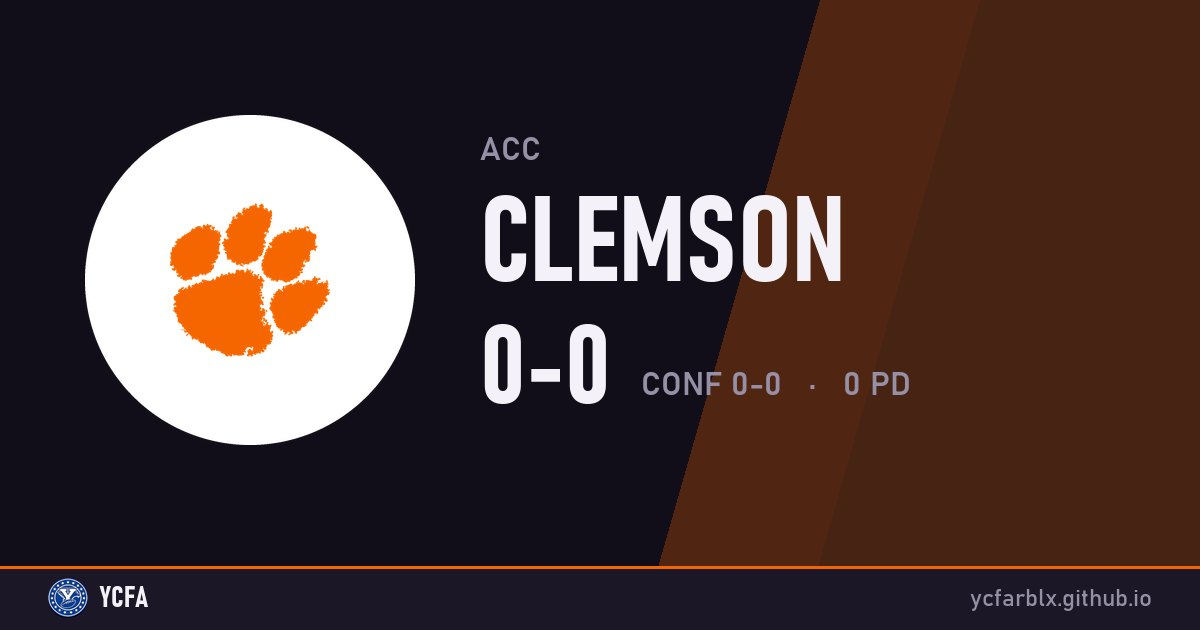
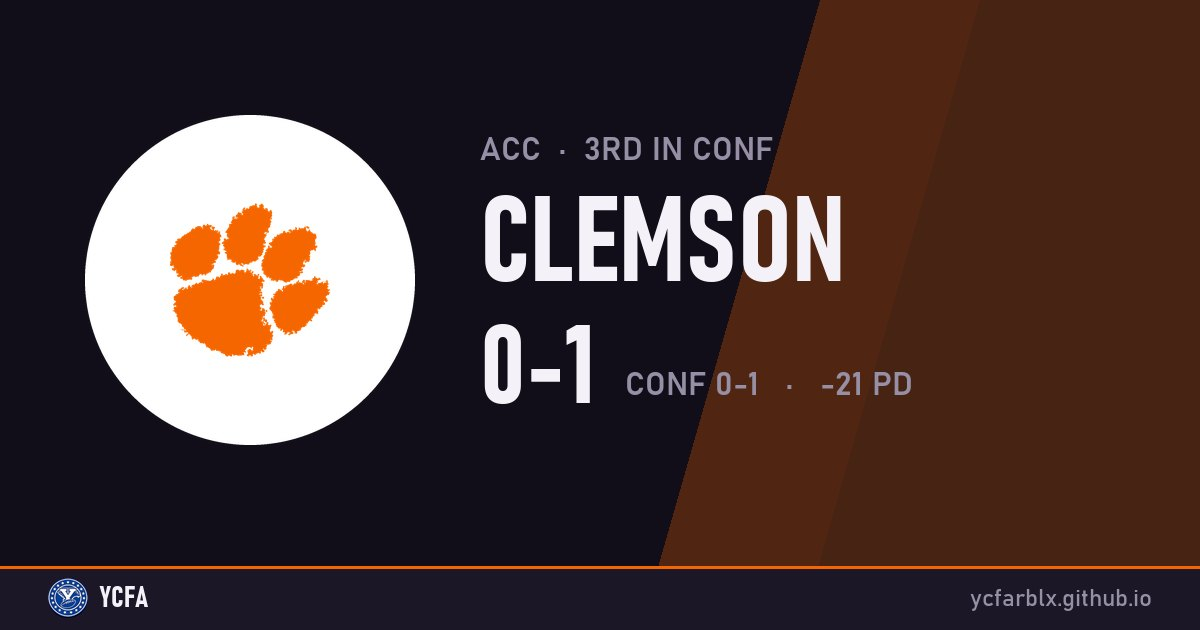
Stats update 2026-11-23 23:20

Changed region(s): [[0.4625, 0.5127, 0.7708, 0.6333], [0.4933, 0.2111, 0.6475, 0.2714]]

diff --git a/game/7/index.html b/game/7/index.html
@@ -1,0 +1,141 @@
+<!doctype html>
+<html lang="en">
+<head>
+  <meta charset="utf-8">
+  <meta name="viewport" content="width=device-width, initial-scale=1, viewport-fit=cover">
+  <!--meta:start-->
+  <title>Florida State 21, Clemson 0 · Final · YCFA</title>
+  <meta name="description" content="Clemson forfeited. Florida State gets the forfeit win (FFW), Clemson the forfeit loss (FFL).">
+  <meta name="theme-color" content="#782f40">
+  <meta property="og:site_name" content="YCFA">
+  <meta property="og:type" content="website">
+  <meta property="og:title" content="Florida State 21, Clemson 0 · Final · YCFA">
+  <meta property="og:description" content="Clemson forfeited. Florida State gets the forfeit win (FFW), Clemson the forfeit loss (FFL).">
+  <meta property="og:url" content="https://ycfarblx.github.io/game/7">
+  <meta property="og:image" content="https://ycfarblx.github.io/og/game-7.jpg?v=ac74031159">
+  <meta property="og:image:width" content="1200">
+  <meta property="og:image:height" content="630">
+  <meta name="twitter:card" content="summary_large_image">
+  <meta name="twitter:title" content="Florida State 21, Clemson 0 · Final · YCFA">
+  <meta name="twitter:description" content="Clemson forfeited. Florida State gets the forfeit win (FFW), Clemson the forfeit loss (FFL).">
+  <meta name="twitter:image" content="https://ycfarblx.github.io/og/game-7.jpg?v=ac74031159">
+  <!--meta:end-->
+  <link rel="icon" href="/img/favicon.png">
+  <link rel="apple-touch-icon" href="/img/apple-touch-icon.png">
+  <link rel="preconnect" href="https://fonts.googleapis.com">
+  <link rel="preconnect" href="https://fonts.gstatic.com" crossorigin>
+  <link href="https://fonts.googleapis.com/css2?family=Graduate&family=Zilla+Slab:wght@500;600;700&family=Source+Sans+3:wght@400;500;600;700;800&display=swap" rel="stylesheet">
+  <link rel="stylesheet" href="/styles.css?v=286e09b7">
+  <script>
+    try { const t = localStorage.getItem("ycfa-theme"); if (t) document.documentElement.dataset.theme = t; } catch (e) {}
+  </script>
+</head>
+<body>
+  <a class="skip" href="#app">Skip to content</a>
+
+  <aside class="siderail" aria-label="YCFA">
+    <a href="/" class="crest" data-link aria-label="YCFA home">
+      <img src="/img/ycfa-logo.png" alt="" width="112" height="112">
+      <span class="crest-text"><span class="crest-word">YCFA</span><span class="crest-sub">Football · Season <b id="sideSeason">1</b></span></span>
+    </a>
+    <span class="live" id="liveCount" hidden aria-live="polite"><i></i><b>1</b><span class="live-word">&nbsp;watching</span></span>
+    <nav class="mainnav" aria-label="Main">
+      <a href="/" data-link data-nav="home"><svg viewBox="0 0 24 24"><path d="M4 10.5 12 4l8 6.5V20H15v-5.5H9V20H4Z"/></svg><span>Home</span></a>
+      <a href="/scores" data-link data-nav="scores"><svg viewBox="0 0 24 24"><rect x="3.5" y="5" width="17" height="14" rx="2"/><path d="M12 5v14"/></svg><span>Scores</span></a>
+      <a href="/standings" data-link data-nav="standings"><svg viewBox="0 0 24 24"><path d="M5 20V10M12 20V4M19 20v-7"/></svg><span>Standings</span></a>
+      <a href="/stats/qb" data-link data-nav="stats"><svg viewBox="0 0 24 24"><path d="M4 6h16M4 12h16M4 18h10"/></svg><span>Stat leaders</span></a>
+      <a href="/teams" data-link data-nav="teams"><svg viewBox="0 0 24 24"><path d="M12 3 4.5 6v5.5c0 4.6 3.2 8.2 7.5 9.5 4.3-1.3 7.5-4.9 7.5-9.5V6Z"/></svg><span>Teams</span></a>
+      <a href="/heisman" data-link data-nav="heisman"><svg viewBox="0 0 24 24"><path d="M7 4h10v5a5 5 0 0 1-10 0Z"/><path d="M12 14v4M8 20h8M17 6h3v1.5A3.5 3.5 0 0 1 16.5 11M7 6H4v1.5A3.5 3.5 0 0 0 7.5 11"/></svg><span>Heisman race</span></a>
+      <a href="/records" data-link data-nav="records"><svg viewBox="0 0 24 24"><path d="M6 4h11a1 1 0 0 1 1 1v15l-3-2-3 2-3-2-3 2V5a1 1 0 0 1 1-1Z"/><path d="M9 9h6M9 13h4"/></svg><span>Record book</span></a>
+      <a href="/awards" data-link data-nav="awards"><svg viewBox="0 0 24 24"><path d="m12 3 2.6 5.3 5.9.9-4.3 4.1 1 5.8L12 16.4 6.8 19.1l1-5.8L3.5 9.2l5.9-.9Z"/></svg><span>Weekly awards</span></a>
+      <a href="/rules" data-link data-nav="rules"><svg viewBox="0 0 24 24"><path d="M5 4.5A1.5 1.5 0 0 1 6.5 3H19v15H6.5A1.5 1.5 0 0 0 5 19.5Z"/><path d="M5 19.5A1.5 1.5 0 0 0 6.5 21H19v-3M9 7h6M9 11h6"/></svg><span>Rule book</span></a>
+    </nav>
+    <div class="side-tools">
+      <button class="tool rp" id="searchBtn" aria-label="Search players and teams">
+        <svg viewBox="0 0 24 24"><circle cx="11" cy="11" r="6.5"/><path d="m20 20-4.2-4.2"/></svg>
+        <span class="tool-label">Search</span><kbd class="tool-kbd">/</kbd>
+      </button>
+      <button class="tool rp" id="themeBtn" aria-label="Switch light or dark mode">
+        <svg class="i-moon" viewBox="0 0 24 24"><path d="M20.5 13.2A8.5 8.5 0 1 1 10.8 3.5a6.6 6.6 0 0 0 9.7 9.7Z"/></svg>
+        <svg class="i-sun" viewBox="0 0 24 24"><circle cx="12" cy="12" r="4"/><path d="M12 2.5v2M12 19.5v2M4.6 4.6 6 6M18 18l1.4 1.4M2.5 12h2M19.5 12h2M4.6 19.4 6 18M18 6l1.4-1.4"/></svg>
+      </button>
+      <button class="join rp" id="discordBtn" hidden aria-haspopup="dialog">Join the league</button>
+    </div>
+  </aside>
+
+  <div class="shell">
+    <div class="scoreboard" id="strip" aria-label="Latest scores"></div>
+
+    <main id="app" tabindex="-1"><div class="boot"><img src="/img/ycfa-logo.png" alt="" width="64" height="64"></div></main>
+
+    <footer class="footer">
+      <div class="ft-inner">
+        <div class="ft-brand">
+          <img src="/img/ycfa-logo.png" alt="YCFA" width="48" height="48">
+          <div>
+            <b>YCFA</b>
+            <p id="updated">Stats update automatically after every game.</p>
+          </div>
+        </div>
+        <nav class="ft-cols">
+          <a href="/scores" data-link>Scores</a><a href="/standings" data-link>Standings</a><a href="/teams" data-link>Teams</a>
+          <a href="/stats/qb" data-link>Leaders</a><a href="/heisman" data-link>Heisman race</a><a href="/awards" data-link>Weekly awards</a>
+          <a href="/records" data-link>Record book</a><a href="/points" data-link>How PTS work</a><a href="/rules" data-link>Rule book</a><a id="ftDiscord" hidden href="#join">Join the league</a>
+        </nav>
+      </div>
+    </footer>
+  </div>
+
+  <nav class="dock" id="dock" aria-label="Main (mobile)">
+    <a href="/" data-link data-nav="home" class="rp"><svg viewBox="0 0 24 24"><path d="M4 10.5 12 4l8 6.5V20H15v-5.5H9V20H4Z"/></svg><span>Home</span></a>
+    <a href="/scores" data-link data-nav="scores" class="rp"><svg viewBox="0 0 24 24"><rect x="3.5" y="5" width="17" height="14" rx="2"/><path d="M12 5v14"/></svg><span>Scores</span></a>
+    <a href="/standings" data-link data-nav="standings" class="rp"><svg viewBox="0 0 24 24"><path d="M5 20V10M12 20V4M19 20v-7"/></svg><span>Standings</span></a>
+    <a href="/stats/qb" data-link data-nav="stats" class="rp"><svg viewBox="0 0 24 24"><path d="M4 6h16M4 12h16M4 18h10"/></svg><span>Stats</span></a>
+    <button data-nav="more" id="moreBtn" class="rp" aria-haspopup="true" aria-expanded="false"><svg viewBox="0 0 24 24"><circle cx="5" cy="12" r="1.4"/><circle cx="12" cy="12" r="1.4"/><circle cx="19" cy="12" r="1.4"/></svg><span>More</span></button>
+  </nav>
+
+  <div class="sheet" id="moreSheet" hidden>
+    <div class="sheet-card">
+      <a href="/teams" data-link class="sheet-item rp">Teams</a>
+      <a href="/heisman" data-link class="sheet-item rp">Heisman race</a>
+      <a href="/awards" data-link class="sheet-item rp">Weekly awards</a>
+      <a href="/records" data-link class="sheet-item rp">Record book</a>
+      <a href="/points" data-link class="sheet-item rp">How PTS work</a>
+      <a href="/rules" data-link class="sheet-item rp">Rule book</a>
+    </div>
+  </div>
+
+  <div class="search" id="search" hidden>
+    <div class="search-card" role="dialog" aria-label="Search">
+      <div class="search-row">
+        <svg viewBox="0 0 24 24"><circle cx="11" cy="11" r="6.5"/><path d="m20 20-4.2-4.2"/></svg>
+        <input id="searchInput" placeholder="Search players or teams" autocomplete="off" spellcheck="false">
+        <kbd>Esc</kbd>
+      </div>
+      <div class="search-results" id="searchResults"></div>
+    </div>
+  </div>
+
+  <div class="joinbox" id="joinBox" hidden>
+    <div class="join-card" role="dialog" aria-modal="true" aria-labelledby="joinTitle">
+      <button class="join-x rp" id="joinClose" aria-label="Close"><svg viewBox="0 0 24 24"><path d="M6 6l12 12M18 6 6 18"/></svg></button>
+      <img class="join-logo" src="/img/ycfa-logo.png" alt="" width="72" height="72">
+      <h2 id="joinTitle">Join the YCFA</h2>
+      <p class="join-sub">Everything happens in our Discord: sign-ups, teams, schedules, refs and game nights.</p>
+      <ol class="join-steps">
+        <li><b>Join the Discord</b><span>Tap the button below to open the server.</span></li>
+        <li><b>Read the rules &amp; sign up</b><span>Follow the sign-up steps in the server to get on a team.</span></li>
+        <li><b>Play</b><span>Your stats land on this site automatically after every game.</span></li>
+      </ol>
+      <a class="join-go rp" id="joinGo" target="_blank" rel="noopener"><svg class="dc" viewBox="0 0 24 24"><path d="M19.6 5.3A16.6 16.6 0 0 0 15.5 4l-.5 1a15.4 15.4 0 0 0-6 0l-.5-1a16.6 16.6 0 0 0-4.1 1.3C1.8 9.2 1.1 13 1.4 16.8a16.7 16.7 0 0 0 5 2.5l1.1-1.7a10.8 10.8 0 0 1-1.7-.8l.4-.3a11.9 11.9 0 0 0 11.6 0l.4.3a10.8 10.8 0 0 1-1.7.8l1.1 1.7a16.7 16.7 0 0 0 5-2.5c.4-4.4-.7-8.2-3-11.5ZM8.7 14.5c-1 0-1.8-.9-1.8-2s.8-2 1.8-2 1.8.9 1.8 2-.8 2-1.8 2Zm6.6 0c-1 0-1.8-.9-1.8-2s.8-2 1.8-2 1.8.9 1.8 2-.8 2-1.8 2Z"/></svg><span>Open Discord</span></a>
+      <button class="join-copy rp" id="joinCopy">Copy invite link</button>
+    </div>
+  </div>
+
+  <div class="toast" id="toast" hidden></div>
+
+  <script>window.YCFA_FIREBASE = null; /* set { projectId, databaseURL } to turn on the live "watching" counter */</script>
+  <script type="module" src="/live.js?v=d1f62e98"></script>
+  <script src="/app.js?v=3a8f565a" defer></script>
+</body>
+</html>

diff --git a/team/florida-state/index.html b/team/florida-state/index.html
@@ -5,20 +5,20 @@
   <meta name="viewport" content="width=device-width, initial-scale=1, viewport-fit=cover">
   <!--meta:start-->
   <title>Florida State · YCFA</title>
-  <meta name="description" content="Florida State · ACC · 0-0 (0-0 conf) · 0 PD. Schedule, results, leaders and roster.">
+  <meta name="description" content="Florida State · ACC · 1-0 (1-0 conf) · +21 PD. Schedule, results, leaders and roster.">
   <meta name="theme-color" content="#782f40">
   <meta property="og:site_name" content="YCFA">
   <meta property="og:type" content="website">
   <meta property="og:title" content="Florida State · YCFA">
-  <meta property="og:description" content="Florida State · ACC · 0-0 (0-0 conf) · 0 PD. Schedule, results, leaders and roster.">
+  <meta property="og:description" content="Florida State · ACC · 1-0 (1-0 conf) · +21 PD. Schedule, results, leaders and roster.">
   <meta property="og:url" content="https://ycfarblx.github.io/team/florida-state">
-  <meta property="og:image" content="https://ycfarblx.github.io/og/team-florida-state.jpg?v=b172676003">
+  <meta property="og:image" content="https://ycfarblx.github.io/og/team-florida-state.jpg?v=ef2ea83e4e">
   <meta property="og:image:width" content="1200">
   <meta property="og:image:height" content="630">
   <meta name="twitter:card" content="summary_large_image">
   <meta name="twitter:title" content="Florida State · YCFA">
-  <meta name="twitter:description" content="Florida State · ACC · 0-0 (0-0 conf) · 0 PD. Schedule, results, leaders and roster.">
-  <meta name="twitter:image" content="https://ycfarblx.github.io/og/team-florida-state.jpg?v=b172676003">
+  <meta name="twitter:description" content="Florida State · ACC · 1-0 (1-0 conf) · +21 PD. Schedule, results, leaders and roster.">
+  <meta name="twitter:image" content="https://ycfarblx.github.io/og/team-florida-state.jpg?v=ef2ea83e4e">
   <!--meta:end-->
   <link rel="icon" href="/img/favicon.png">
   <link rel="apple-touch-icon" href="/img/apple-touch-icon.png">

diff --git a/team/clemson/index.html b/team/clemson/index.html
@@ -5,20 +5,20 @@
   <meta name="viewport" content="width=device-width, initial-scale=1, viewport-fit=cover">
   <!--meta:start-->
   <title>Clemson · YCFA</title>
-  <meta name="description" content="Clemson · ACC · 0-0 (0-0 conf) · 0 PD. Schedule, results, leaders and roster.">
+  <meta name="description" content="Clemson · ACC · 0-1 (0-1 conf) · -21 PD. Schedule, results, leaders and roster.">
   <meta name="theme-color" content="#f56600">
   <meta property="og:site_name" content="YCFA">
   <meta property="og:type" content="website">
   <meta property="og:title" content="Clemson · YCFA">
-  <meta property="og:description" content="Clemson · ACC · 0-0 (0-0 conf) · 0 PD. Schedule, results, leaders and roster.">
+  <meta property="og:description" content="Clemson · ACC · 0-1 (0-1 conf) · -21 PD. Schedule, results, leaders and roster.">
   <meta property="og:url" content="https://ycfarblx.github.io/team/clemson">
-  <meta property="og:image" content="https://ycfarblx.github.io/og/team-clemson.jpg?v=4e32d7dc1c">
+  <meta property="og:image" content="https://ycfarblx.github.io/og/team-clemson.jpg?v=288cd764d0">
   <meta property="og:image:width" content="1200">
   <meta property="og:image:height" content="630">
   <meta name="twitter:card" content="summary_large_image">
   <meta name="twitter:title" content="Clemson · YCFA">
-  <meta name="twitter:description" content="Clemson · ACC · 0-0 (0-0 conf) · 0 PD. Schedule, results, leaders and roster.">
-  <meta name="twitter:image" content="https://ycfarblx.github.io/og/team-clemson.jpg?v=4e32d7dc1c">
+  <meta name="twitter:description" content="Clemson · ACC · 0-1 (0-1 conf) · -21 PD. Schedule, results, leaders and roster.">
+  <meta name="twitter:image" content="https://ycfarblx.github.io/og/team-clemson.jpg?v=288cd764d0">
   <!--meta:end-->
   <link rel="icon" href="/img/favicon.png">
   <link rel="apple-touch-icon" href="/img/apple-touch-icon.png">

diff --git a/game/1/index.html b/game/1/index.html
@@ -12,13 +12,13 @@
   <meta property="og:title" content="Arizona 70, Oregon 6 · Final · YCFA">
   <meta property="og:description" content="fatboiugly520 had 631 passing yards and 7 TDs as Arizona beat Oregon 70–6. Player of the game: fatboiugly520 (52.5 PTS).">
   <meta property="og:url" content="https://ycfarblx.github.io/game/1">
-  <meta property="og:image" content="https://ycfarblx.github.io/og/game-1.jpg?v=b672ee33f7">
+  <meta property="og:image" content="https://ycfarblx.github.io/og/game-1.jpg?v=954fb305ba">
   <meta property="og:image:width" content="1200">
   <meta property="og:image:height" content="630">
   <meta name="twitter:card" content="summary_large_image">
   <meta name="twitter:title" content="Arizona 70, Oregon 6 · Final · YCFA">
   <meta name="twitter:description" content="fatboiugly520 had 631 passing yards and 7 TDs as Arizona beat Oregon 70–6. Player of the game: fatboiugly520 (52.5 PTS).">
-  <meta name="twitter:image" content="https://ycfarblx.github.io/og/game-1.jpg?v=b672ee33f7">
+  <meta name="twitter:image" content="https://ycfarblx.github.io/og/game-1.jpg?v=954fb305ba">
   <!--meta:end-->
   <link rel="icon" href="/img/favicon.png">
   <link rel="apple-touch-icon" href="/img/apple-touch-icon.png">

diff --git a/game/3/index.html b/game/3/index.html
@@ -12,13 +12,13 @@
   <meta property="og:title" content="Kansas State 21, Houston 0 · Final · YCFA">
   <meta property="og:description" content="Houston forfeited. Kansas State gets the forfeit win (FFW), Houston the forfeit loss (FFL).">
   <meta property="og:url" content="https://ycfarblx.github.io/game/3">
-  <meta property="og:image" content="https://ycfarblx.github.io/og/game-3.jpg?v=e331e53414">
+  <meta property="og:image" content="https://ycfarblx.github.io/og/game-3.jpg?v=4dedcd1fba">
   <meta property="og:image:width" content="1200">
   <meta property="og:image:height" content="630">
   <meta name="twitter:card" content="summary_large_image">
   <meta name="twitter:title" content="Kansas State 21, Houston 0 · Final · YCFA">
   <meta name="twitter:description" content="Houston forfeited. Kansas State gets the forfeit win (FFW), Houston the forfeit loss (FFL).">
-  <meta name="twitter:image" content="https://ycfarblx.github.io/og/game-3.jpg?v=e331e53414">
+  <meta name="twitter:image" content="https://ycfarblx.github.io/og/game-3.jpg?v=4dedcd1fba">
   <!--meta:end-->
   <link rel="icon" href="/img/favicon.png">
   <link rel="apple-touch-icon" href="/img/apple-touch-icon.png">

diff --git a/game/5/index.html b/game/5/index.html
@@ -12,13 +12,13 @@
   <meta property="og:title" content="Texas Tech 21, Miami 0 · Final · YCFA">
   <meta property="og:description" content="Miami forfeited. Texas Tech gets the forfeit win (FFW), Miami the forfeit loss (FFL).">
   <meta property="og:url" content="https://ycfarblx.github.io/game/5">
-  <meta property="og:image" content="https://ycfarblx.github.io/og/game-5.jpg?v=bbc062da0f">
+  <meta property="og:image" content="https://ycfarblx.github.io/og/game-5.jpg?v=2a7d1ed323">
   <meta property="og:image:width" content="1200">
   <meta property="og:image:height" content="630">
   <meta name="twitter:card" content="summary_large_image">
   <meta name="twitter:title" content="Texas Tech 21, Miami 0 · Final · YCFA">
   <meta name="twitter:description" content="Miami forfeited. Texas Tech gets the forfeit win (FFW), Miami the forfeit loss (FFL).">
-  <meta name="twitter:image" content="https://ycfarblx.github.io/og/game-5.jpg?v=bbc062da0f">
+  <meta name="twitter:image" content="https://ycfarblx.github.io/og/game-5.jpg?v=2a7d1ed323">
   <!--meta:end-->
   <link rel="icon" href="/img/favicon.png">
   <link rel="apple-touch-icon" href="/img/apple-touch-icon.png">

diff --git a/game/4/index.html b/game/4/index.html
@@ -12,13 +12,13 @@
   <meta property="og:title" content="Auburn 21, Florida 0 · Final · YCFA">
   <meta property="og:description" content="Florida forfeited. Auburn gets the forfeit win (FFW), Florida the forfeit loss (FFL).">
   <meta property="og:url" content="https://ycfarblx.github.io/game/4">
-  <meta property="og:image" content="https://ycfarblx.github.io/og/game-4.jpg?v=91fa6b4af9">
+  <meta property="og:image" content="https://ycfarblx.github.io/og/game-4.jpg?v=34b4b10f0c">
   <meta property="og:image:width" content="1200">
   <meta property="og:image:height" content="630">
   <meta name="twitter:card" content="summary_large_image">
   <meta name="twitter:title" content="Auburn 21, Florida 0 · Final · YCFA">
   <meta name="twitter:description" content="Florida forfeited. Auburn gets the forfeit win (FFW), Florida the forfeit loss (FFL).">
-  <meta name="twitter:image" content="https://ycfarblx.github.io/og/game-4.jpg?v=91fa6b4af9">
+  <meta name="twitter:image" content="https://ycfarblx.github.io/og/game-4.jpg?v=34b4b10f0c">
   <!--meta:end-->
   <link rel="icon" href="/img/favicon.png">
   <link rel="apple-touch-icon" href="/img/apple-touch-icon.png">

diff --git a/game/2/index.html b/game/2/index.html
@@ -12,13 +12,13 @@
   <meta property="og:title" content="Alabama 21, Duke 0 · Final · YCFA">
   <meta property="og:description" content="Duke forfeited. Alabama gets the forfeit win (FFW), Duke the forfeit loss (FFL).">
   <meta property="og:url" content="https://ycfarblx.github.io/game/2">
-  <meta property="og:image" content="https://ycfarblx.github.io/og/game-2.jpg?v=7071d6a2ef">
+  <meta property="og:image" content="https://ycfarblx.github.io/og/game-2.jpg?v=ca9458e4bb">
   <meta property="og:image:width" content="1200">
   <meta property="og:image:height" content="630">
   <meta name="twitter:card" content="summary_large_image">
   <meta name="twitter:title" content="Alabama 21, Duke 0 · Final · YCFA">
   <meta name="twitter:description" content="Duke forfeited. Alabama gets the forfeit win (FFW), Duke the forfeit loss (FFL).">
-  <meta name="twitter:image" content="https://ycfarblx.github.io/og/game-2.jpg?v=7071d6a2ef">
+  <meta name="twitter:image" content="https://ycfarblx.github.io/og/game-2.jpg?v=ca9458e4bb">
   <!--meta:end-->
   <link rel="icon" href="/img/favicon.png">
   <link rel="apple-touch-icon" href="/img/apple-touch-icon.png">

diff --git a/game/6/index.html b/game/6/index.html
@@ -12,13 +12,13 @@
   <meta property="og:title" content="Ohio State 68, Michigan 67 · Final · YCFA">
   <meta property="og:description" content="Full box score on the YCFA site.">
   <meta property="og:url" content="https://ycfarblx.github.io/game/6">
-  <meta property="og:image" content="https://ycfarblx.github.io/og/game-6.jpg?v=bbc5c95fc2">
+  <meta property="og:image" content="https://ycfarblx.github.io/og/game-6.jpg?v=b1b01c8a16">
   <meta property="og:image:width" content="1200">
   <meta property="og:image:height" content="630">
   <meta name="twitter:card" content="summary_large_image">
   <meta name="twitter:title" content="Ohio State 68, Michigan 67 · Final · YCFA">
   <meta name="twitter:description" content="Full box score on the YCFA site.">
-  <meta name="twitter:image" content="https://ycfarblx.github.io/og/game-6.jpg?v=bbc5c95fc2">
+  <meta name="twitter:image" content="https://ycfarblx.github.io/og/game-6.jpg?v=b1b01c8a16">
   <!--meta:end-->
   <link rel="icon" href="/img/favicon.png">
   <link rel="apple-touch-icon" href="/img/apple-touch-icon.png">
